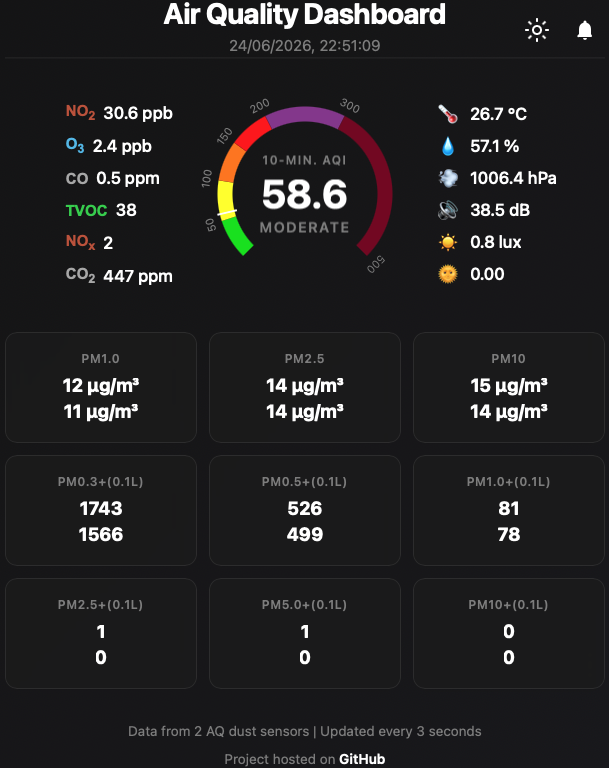
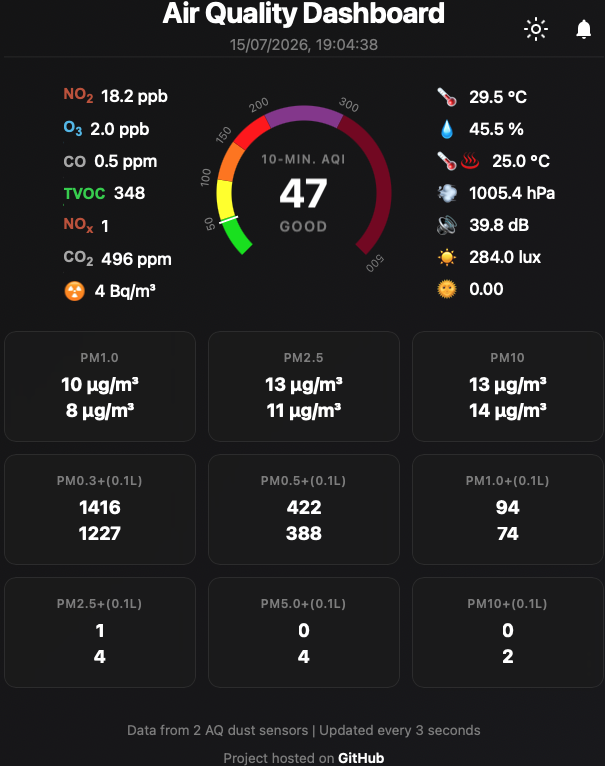
Document Thom discomfort index and update dashboard screenshots
Add documentation for the Thom discomfort index to the README and update relevant screenshots to reflect this addition. Also clarifies the noise level description in the README.

diff --git a/README.md b/README.md
@@ -110,9 +110,11 @@ Right Column Values (Environment Parameters):
 
 -	Relative humidity (amount of moisture in the air) - the normal value is around 40%
 
+- Thom discomfort index in Celsius degrees (below 21 means no discomfort)
+
 -	Atmospheric pressure expressed in hectoPascals
 
--	Noise level in the environment in decibels (below 20 dB would be very quiet)
+-	Noise level in the environment in decibels (around 20 dB would be very quiet)
 
 - Visible light expressed in Lux
 